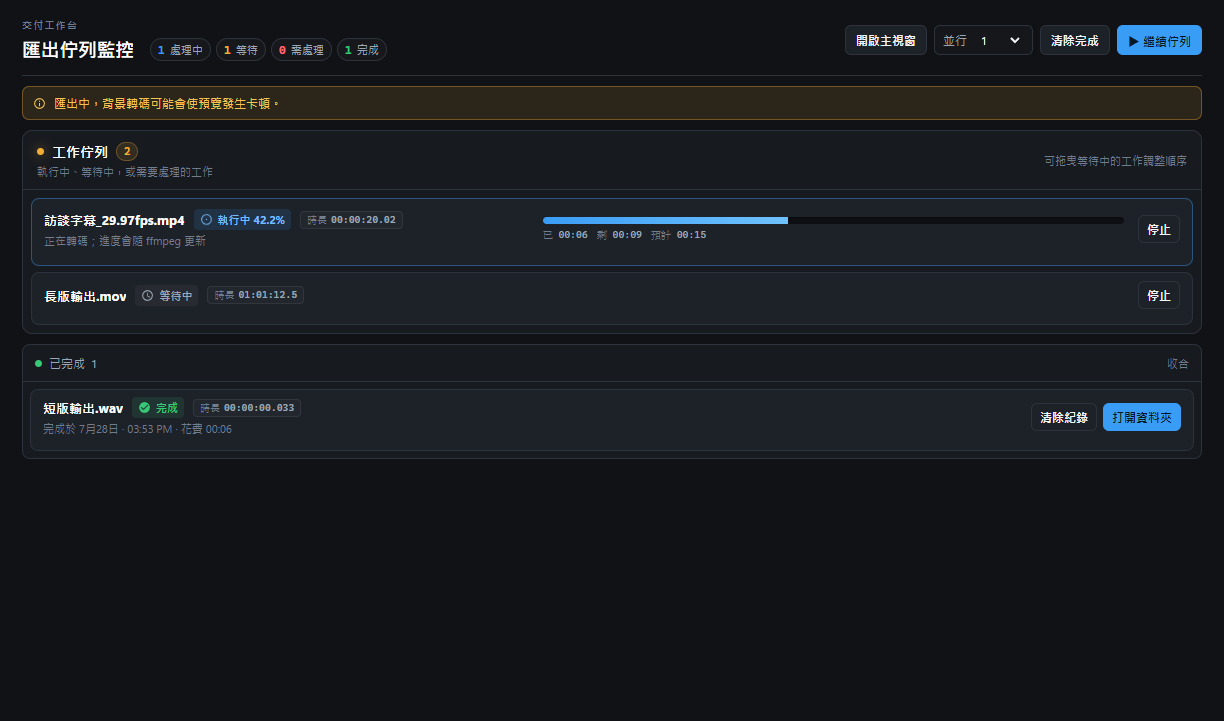
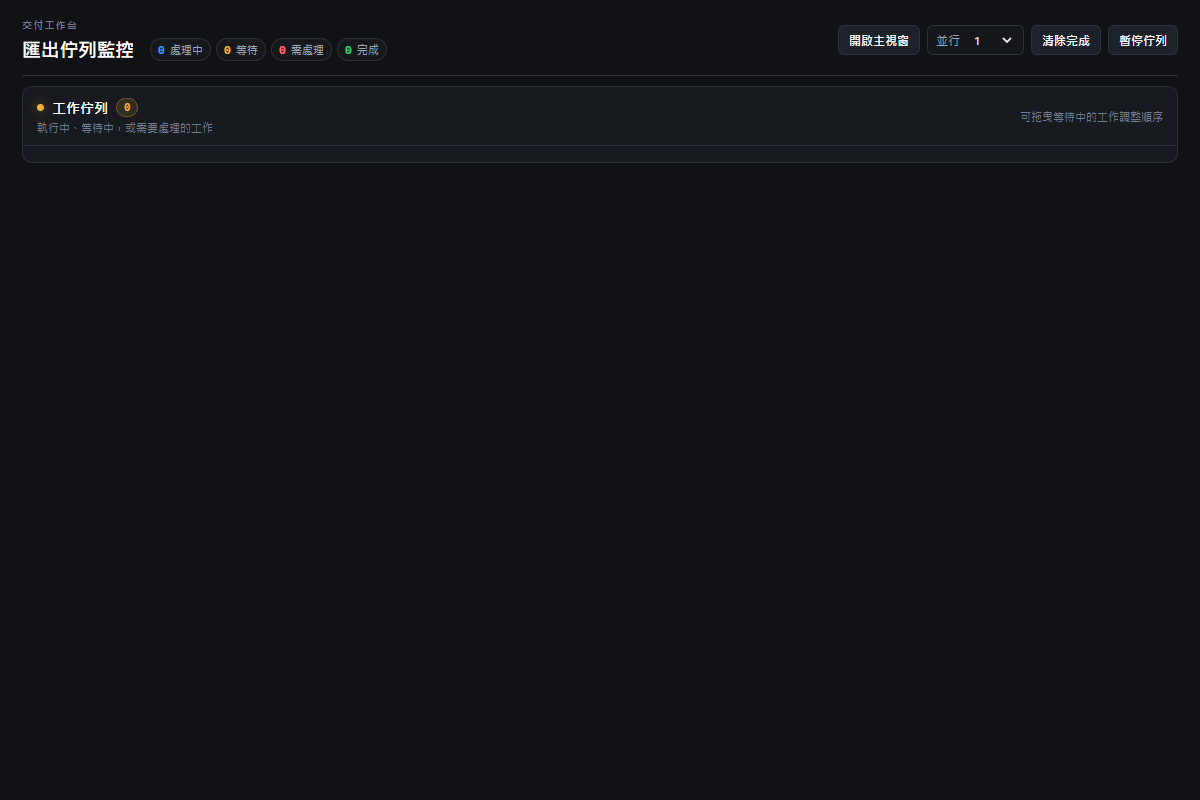
更新 README 內容與介面截圖

diff --git a/capture.js b/capture.js
@@ -1,0 +1,52 @@
+const puppeteer = require('puppeteer');
+
+(async () => {
+  const browser = await puppeteer.launch({
+    defaultViewport: { width: 1200, height: 800 },
+    args: ['--no-sandbox', '--disable-setuid-sandbox']
+  });
+  const page = await browser.newPage();
+  
+  // 1. Capture Workspace
+  await page.goto('http://localhost:8777/');
+  await page.evaluate(() => {
+    // Modify state to add some fake data
+    if (window.State && window.Seq) {
+      window.State.tracks = [{name:'對白',visible:true,locked:false}, {name:'歌詞',visible:true,locked:false}];
+      window.State.videoTracks = [{name:'V_拼桌_FTR_24FPS_51FM+20FM_30P.mxf',visible:true,locked:false}, {name:'視訊軌 2',visible:true,locked:false}];
+      window.State.cues = [
+        {id: '1', start: 1.5, end: 4.2, text: '這是一個強大的多軌時間軸字幕工具', track: 0, style: { fontSize: 45, color: '#ffffff' }},
+        {id: '2', start: 4.5, end: 8.0, text: '可以精準處理每一句字幕的外觀與時碼', track: 0},
+        {id: '3', start: 2.0, end: 6.0, text: '♫ 背景音樂 ♫', track: 1}
+      ];
+      window.State.clips = [
+        {id: 'c1', start: 0, end: 10, offset: 0, vtrack: 0, name: 'V_拼桌_FTR_24FPS_51FM+20FM_30P.mxf'}
+      ];
+      window.State.duration = 15;
+      if (window.drawTimeline) window.drawTimeline();
+      if (window.renderSublist) window.renderSublist();
+      if (window.renderTrackGutter) window.renderTrackGutter();
+      if (window.renderVtrackGutter) window.renderVtrackGutter();
+    }
+  });
+  await new Promise(r => setTimeout(r, 1000)); // Wait for rendering
+  await page.screenshot({ path: 'docs/images/readme-workspace.png' });
+
+  // 2. Capture Export Queue
+  await page.goto('http://localhost:8777/electron/queue.html');
+  await page.evaluate(() => {
+    // Fake queue data
+    if (window.jobs) {
+      window.jobs = [
+        {id: '1', fileName: '合併_對白+歌詞.srt', status: 'completed', duration: 1800, progress: 100, startTime: Date.now() - 60000, endTime: Date.now() - 5000, message: '匯出完成'},
+        {id: '2', fileName: 'ST_V_SUB_拼桌.mp4', status: 'processing', duration: 3600, progress: 45, startTime: Date.now() - 20000, message: '寫入影片中... (速度: 2.5x)'},
+        {id: '3', fileName: 'ST_V_SUB_對白.ass', status: 'waiting', duration: 1800, progress: 0, startTime: null}
+      ];
+      if (window.renderQueue) window.renderQueue();
+    }
+  });
+  await new Promise(r => setTimeout(r, 1000));
+  await page.screenshot({ path: 'docs/images/readme-export-queue.png' });
+
+  await browser.close();
+})();

diff --git a/README.md b/README.md
@@ -1,12 +1,12 @@
 <p align="center">
-  <img src="src/logo.png" width="88" alt="SUB Tool logo">
+  <img src="src/logo.png" width="100" alt="SUB Tool logo">
 </p>
 
 <h1 align="center">SUB Tool</h1>
 
 <p align="center">
   <strong>把字幕、畫面、音訊與交付，放在同一條時間軸完成。</strong><br>
-  為上字幕、剪輯與交付流程打造的多軌時間軸工具，提供網頁版與 Windows 桌面版。
+  為上字幕、剪輯與交付流程打造的高效多軌時間軸工具，提供流暢的網頁版與全能的 Windows 桌面版。
 </p>
 
 <p align="center">
@@ -17,79 +17,95 @@
   <a href="docs/版本變更紀錄.md">查看版本變更</a>
 </p>
 
+---
+
+## 🚀 核心特色亮點 (Features)
+
+SUB Tool 致力於將繁瑣的字幕與影音交付工作，整合成最直覺、最快速的工作流。
+
+### 1. 專業且細膩的字幕控制
+每一句字幕都能擁有獨立的生命力。您可以針對單一字幕調整字型、大小、對齊、外框、陰影、直書排版等設定。
+- **所見即所得**：在預覽畫面上直接點擊並拖曳字幕，即時調整位置。
+- **格式支援齊全**：完美支援 SRT、ASS/SSA、純文字、xlsx，甚至 Adobe Encore 時碼的匯入與匯出。
+- **智慧合併匯出**：最新版本支援勾選多條軌道，一鍵合併輸出成單一 SRT/ASS 檔案，大幅提升交付效率。
+
 ![SUB Tool 主工作區：播放器、字幕列表、樣式面板與多軌時間軸](docs/images/readme-workspace.png)
+> **強大的主工作區**：整合了即時播放器、高效率的字幕列表、詳細的樣式面板，以及靈活的多軌時間軸。
 
-> 以上為示範素材畫面：播放器可直接調整字幕，右側處理逐句樣式，下方用多軌時間軸安排畫面、音訊與字幕。
+### 2. 多軌時間軸：不只是字幕，更是完整的影音畫布
+無論是複雜的多聲道專案，還是需要疊加多層影像，SUB Tool 都能輕鬆應對。
+- **視訊與音訊獨立編輯**：支援無限增加視訊與字幕軌道。拖曳邊緣即可修剪，拖放即可變更軌道。
+- **全新視訊軌收合功能**：當軌道數量增加時，只需點擊左側 🎬 按鈕，即可一鍵收合視訊軌區塊，將寶貴的畫面空間保留給最重要的音訊與字幕編輯。
+- **動態效果與轉場**：支援透明疊層、子母畫面、圖片插入，更內建淡入淡出與軌間交叉溶接效果。
 
-## 從素材到交付，一條時間軸完成
-
-| 1. 匯入 | 2. 編輯 | 3. 交付 |
-| --- | --- | --- |
-| 影片、圖片、音訊與 SRT／ASS 字幕 | 在播放器和多軌時間軸同步調整 | 輸出 MP4、ProRes、WAV 與交付字幕檔 |
-| 桌面版支援 MXF、MKV、AVI 與多音軌媒體 | 字幕、畫面片段、外部音訊可獨立編輯 | 輸出範圍、FPS、時間碼與佇列都可掌握 |
-
-## 為交付而設計
-
-### 精準處理字幕
-
-- 在播放器上直接拖曳字幕定位、旋轉；可開啟安全框與時間碼監看。
-- 每一句都能覆蓋字型、字級、位置、對齊、顏色、框線、陰影、字距、行距與直書設定。
-- 匯入／匯出 SRT、ASS／SSA、Adobe Encore 時碼、純文字與 XLSX；預覽、mpv 與燒錄匯出共用同一套樣式。
-
-### 多軌處理畫面與聲音
-
-- 多條字幕、視訊與音訊軌道可同時排列；支援切割、修剪、疊層、子母畫面、圖片素材、淡入淡出與軌間溶接。
-- 專案音訊路由以輸出 Bus 為核心，可安排 Mono、Stereo、5.1 與多聲道 WAV 的來源聲道對應。
-- 交付時一律使用母素材解碼，不會把 Proxy 或播放快取當成正式輸出來源。
+### 3. 為專業交付而生的高階音訊處理
+- **多聲道路由 (Audio Routing)**：內建專業的音軌配線矩陣（Bus），輕鬆設定 Mono、Stereo 或是 5.1 聲道的輸出對應。
+- **原生畫質交付**：輸出時一律讀取母素材進行無損解碼與重新編碼，絕不使用降級的 Proxy 或快取。
 
 ![SUB Tool 匯出佇列監控：工作狀態、輸出時長、預估時間與完成時間](docs/images/readme-export-queue.png)
+> **背景佇列監控**：所有匯出工作都在背景由 FFmpeg 處理。您可以隨時監控進度、預估剩餘時間、調整工作優先順序（支援拖曳排序），完全不中斷當前的編輯工作。
 
-> 佇列畫面以示範工作呈現：每筆工作都能看到輸出時長、處理狀態、進度、預估時間與完成時間，也可暫停、排序或清除紀錄。
+---
 
-## 選擇適合的版本
+## 💻 選擇適合您的版本
 
-| 版本 | 適合情境 | 媒體能力 |
-| --- | --- | --- |
-| **Windows 桌面版（推薦）** | 日常剪輯、交付與開啟 `.subtool` 專案 | MP4、MOV、MXF、MKV、AVI、多音軌、mpv 秒開與媒體快取 |
-| 網頁版 | 輕量編輯或從原始碼啟動 | MP4、MOV（H.264）、MP3、WAV |
+| 功能與能力 | Windows 桌面版（推薦） | 網頁版 |
+| :--- | :--- | :--- |
+| **適用情境** | 日常剪輯、高強度交付、讀寫 `.subtool` 專案檔 | 輕量快速預覽、跨平台從原始碼執行 |
+| **媒體支援** | MP4, MOV, MXF, MKV, AVI | MP4, MOV (H.264), MP3, WAV |
+| **音訊能力** | 完美支援多音軌素材、多聲道輸出 | 基本音訊播放 |
+| **播放核心** | 整合原生 `mpv` 播放器，秒開大檔不卡頓 | 依賴瀏覽器 HTML5 播放能力 |
 
-## 快速開始
+---
 
-### 使用 Windows 桌面版
+## ⚡ 快速開始 (Quick Start)
 
-1. 前往 [Releases](https://github.com/evanwayc-star/SUB_Tool/releases/latest) 下載並安裝最新版。
-2. 開啟 SUB Tool，匯入媒體和字幕；已有專案可直接雙擊 `.subtool` 檔案。
-3. 需要逐步操作時，從 [`docs/使用說明.md`](docs/使用說明.md) 開始。
+### 使用 Windows 桌面版 (一般使用者)
+1. 前往 [Releases 頁面](https://github.com/evanwayc-star/SUB_Tool/releases/latest) 下載最新版的 `SUB Tool Setup.exe` 並安裝。
+2. 開啟應用程式，拖曳您的影片與字幕檔進入畫面即可開始編輯！
+3. 若您有已儲存的 `.subtool` 專案，雙擊檔案即可秒速還原所有軌道與設定。
+4. 第一次使用？建議從 [`docs/使用說明.md`](docs/使用說明.md) 開始閱讀。
 
 <details>
-<summary>從原始碼執行（開發者）</summary>
+<summary><b>從原始碼執行 (開發者)</b></summary>
 
-需要 [Node.js](https://nodejs.org) 18+。第一次安裝依賴後，以 Electron 啟動桌面版：
+本專案採用 **Vite + 原生 ES 模組（無框架）** 架構，確保最純粹的高效能體驗。
+您需要先安裝 [Node.js](https://nodejs.org) (建議 18+)。
 
+1. **安裝依賴套件：**
 ```bash
 npm install
+```
+
+2. **啟動開發用桌面版：**
+```bash
 npm run electron
 ```
 
-只要建立網頁版成品時執行：
-
+3. **打包編譯：**
 ```bash
+# 僅編譯網頁版前端
 npm run build
+
+# 編譯前端並打包出可執行的 .exe 安裝檔
+npm run dist
 ```
 
-完整開發、驗證與發版指令見 [`docs/開發與驗證.md`](docs/開發與驗證.md)。
-
+完整的架構規範、驗證與發版流程，請參閱開發者專用的 [`docs/開發與驗證.md`](docs/開發與驗證.md)。
 </details>
 
-## 文件入口
+---
 
-| 你想做什麼 | 從這裡開始 |
-| --- | --- |
-| 學會操作、快捷鍵與字幕格式 | [`docs/使用說明.md`](docs/使用說明.md) |
-| 建置、測試或發版 | [`docs/開發與驗證.md`](docs/開發與驗證.md) |
-| 了解 Electron、ffmpeg、mpv 與 IPC | [`docs/Electron_維護手冊.md`](docs/Electron_維護手冊.md) |
-| 了解資料流、字幕樣式與技術不變量 | [`docs/技術架構說明.md`](docs/技術架構說明.md) |
-| 查閱 FPS／時間碼規則 | [`docs/FPS_時碼一致性.md`](docs/FPS_時碼一致性.md) |
-| 追蹤每一版修正與驗證紀錄 | [`docs/版本變更紀錄.md`](docs/版本變更紀錄.md) |
+## 📚 文件入口指南
 
-> 維護者與 AI 助理請先閱讀 [`AGENTS.md`](AGENTS.md)，再查看技術架構與驗證文件。
+| 您的需求是？ | 請參閱對應文件 |
+| :--- | :--- |
+| **我想學習操作與快捷鍵** | [`docs/使用說明.md`](docs/使用說明.md) |
+| **我是開發者，想發佈新版本** | [`docs/開發與驗證.md`](docs/開發與驗證.md) |
+| **我想了解 Electron 與 IPC 架構** | [`docs/Electron_維護手冊.md`](docs/Electron_維護手冊.md) |
+| **我要參與貢獻，想了解核心鐵律** | [`docs/技術架構說明.md`](docs/技術架構說明.md) |
+| **我想了解 FPS 與時間碼的處理邏輯**| [`docs/FPS_時碼一致性.md`](docs/FPS_時碼一致性.md) |
+| **我想看每次改版修復了什麼坑** | [`docs/版本變更紀錄.md`](docs/版本變更紀錄.md) |
+
+> 🤖 **給 AI 助理與新加入維護者的重要提醒：**
+> 準備修改任何程式碼之前，請**務必**先閱讀本專案最高指導原則：[`AGENTS.md`](AGENTS.md)。
